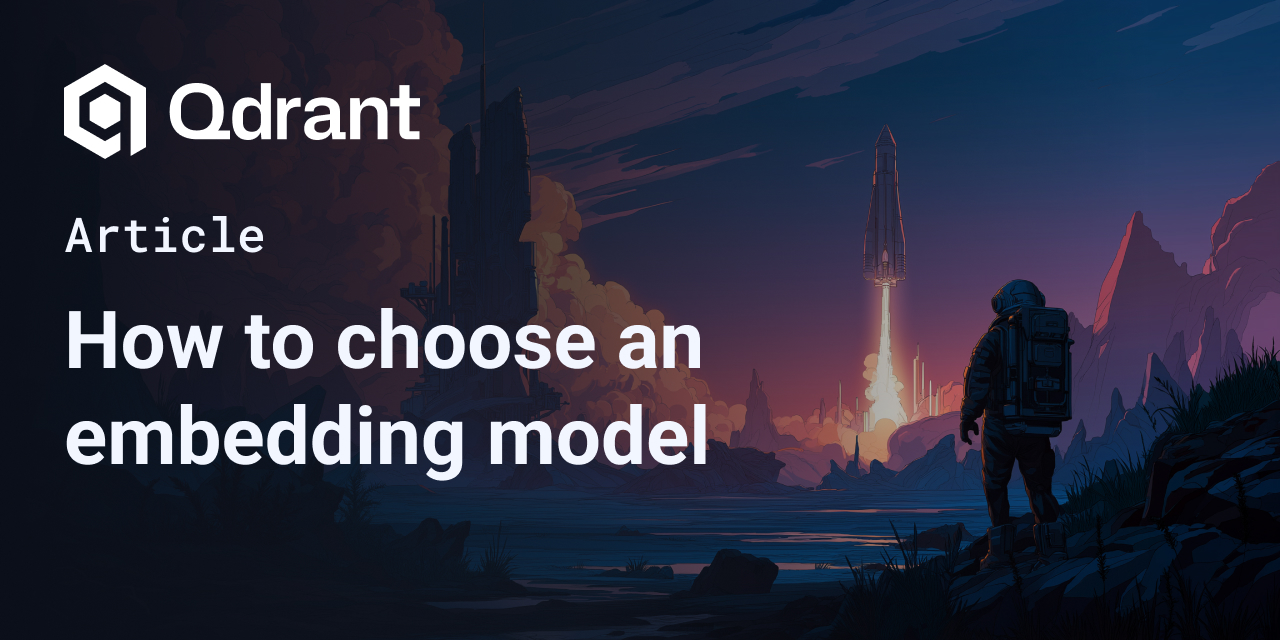
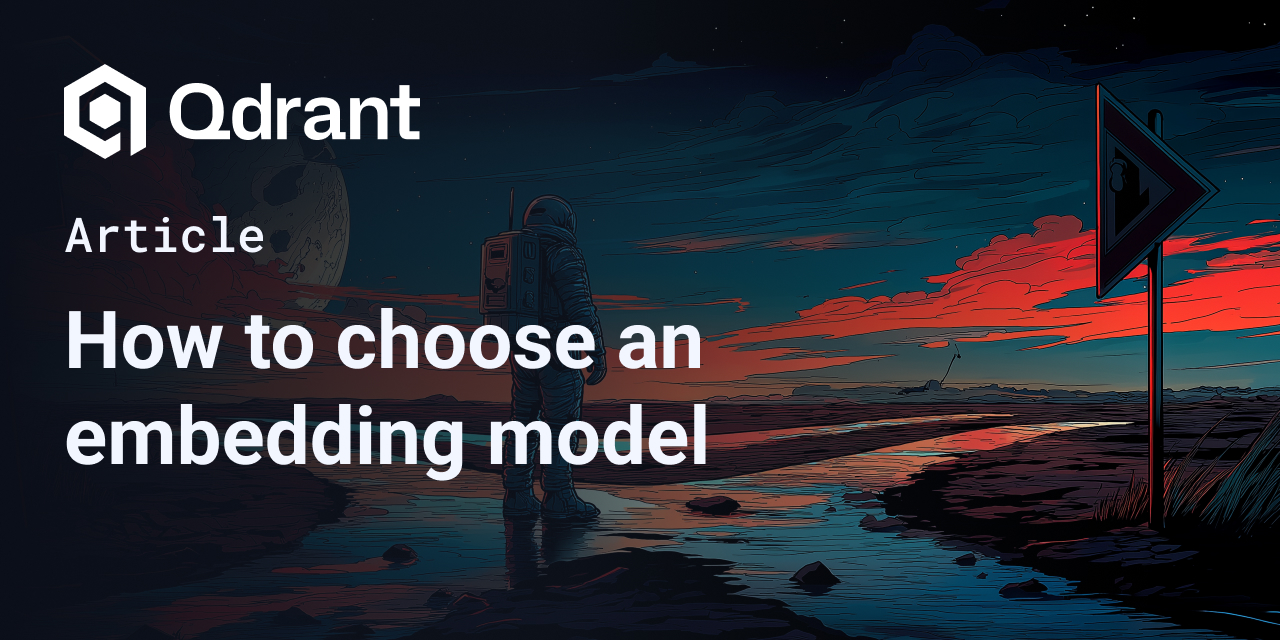
fix preview

diff --git a/qdrant-landing/content/articles/how-to-choose-an-embedding-model.md b/qdrant-landing/content/articles/how-to-choose-an-embedding-model.md
@@ -3,7 +3,7 @@ title: "How to choose an embedding model"
 short_description: "There is no one-size-fits-all solution when it comes to embedding models. Learn how to choose the right one for your use case."
 description: "Building proper search requires selecting the right embedding model for your specific use case. This guide helps you navigate the selection process based on performance, cost, and other practical considerations."
 preview_dir: /articles_data/how-to-choose-an-embedding-model/preview
-social_preview_image: /articles_data/how-to-choose-an-embedding-model/social-preview.png
+social_preview_image: /articles_data/how-to-choose-an-embedding-model/preview/social_preview.jpg
 author: Kacper Łukawski
 author_link: https://www.kacperlukawski.com
 date: 2025-07-15T00:00:00.000Z
